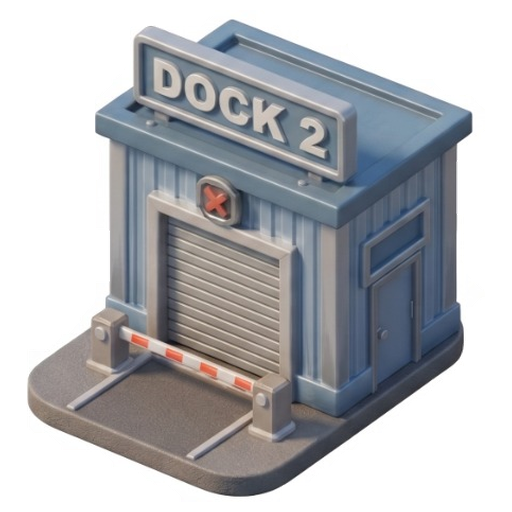
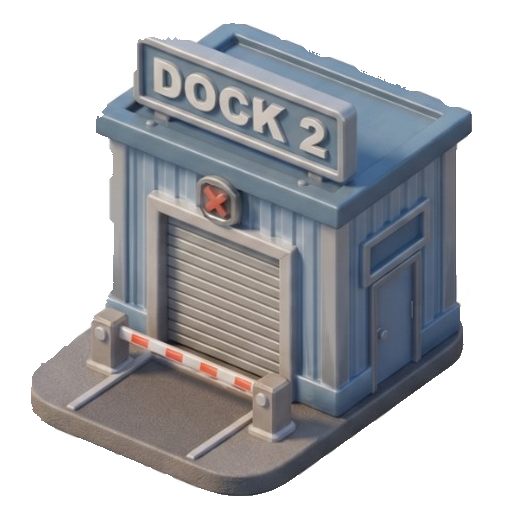
Clean dock artwork and remove gate shadows

diff --git a/index.html b/index.html
@@ -3551,10 +3551,7 @@ function draw() {
  // Each checkpoint uses its matching raised dock illustration.
  const gateArt = gateOpen ? MAP_GATE_ART[it.g] : (MAP_GATE_LOCKED_ART[it.g] || MAP_GATE_ART[it.g]);
  h += `
- <g filter="url(#pedestal-shadow)">
-  <ellipse cx="${p.x}" cy="${p.y + 34}" rx="31" ry="7" fill="rgba(15,23,42,0.42)"/>
-  <image href="${gateArt}" x="${p.x - 43}" y="${p.y - 74}" width="86" height="104" preserveAspectRatio="xMidYMid meet"/>
-</g>
+ <image href="${gateArt}" x="${p.x - 43}" y="${p.y - 74}" width="86" height="104" preserveAspectRatio="xMidYMid meet"/>
  `;
  } else {
  // Each delivery stop keeps its own level color; stars and the active ring communicate progress.
